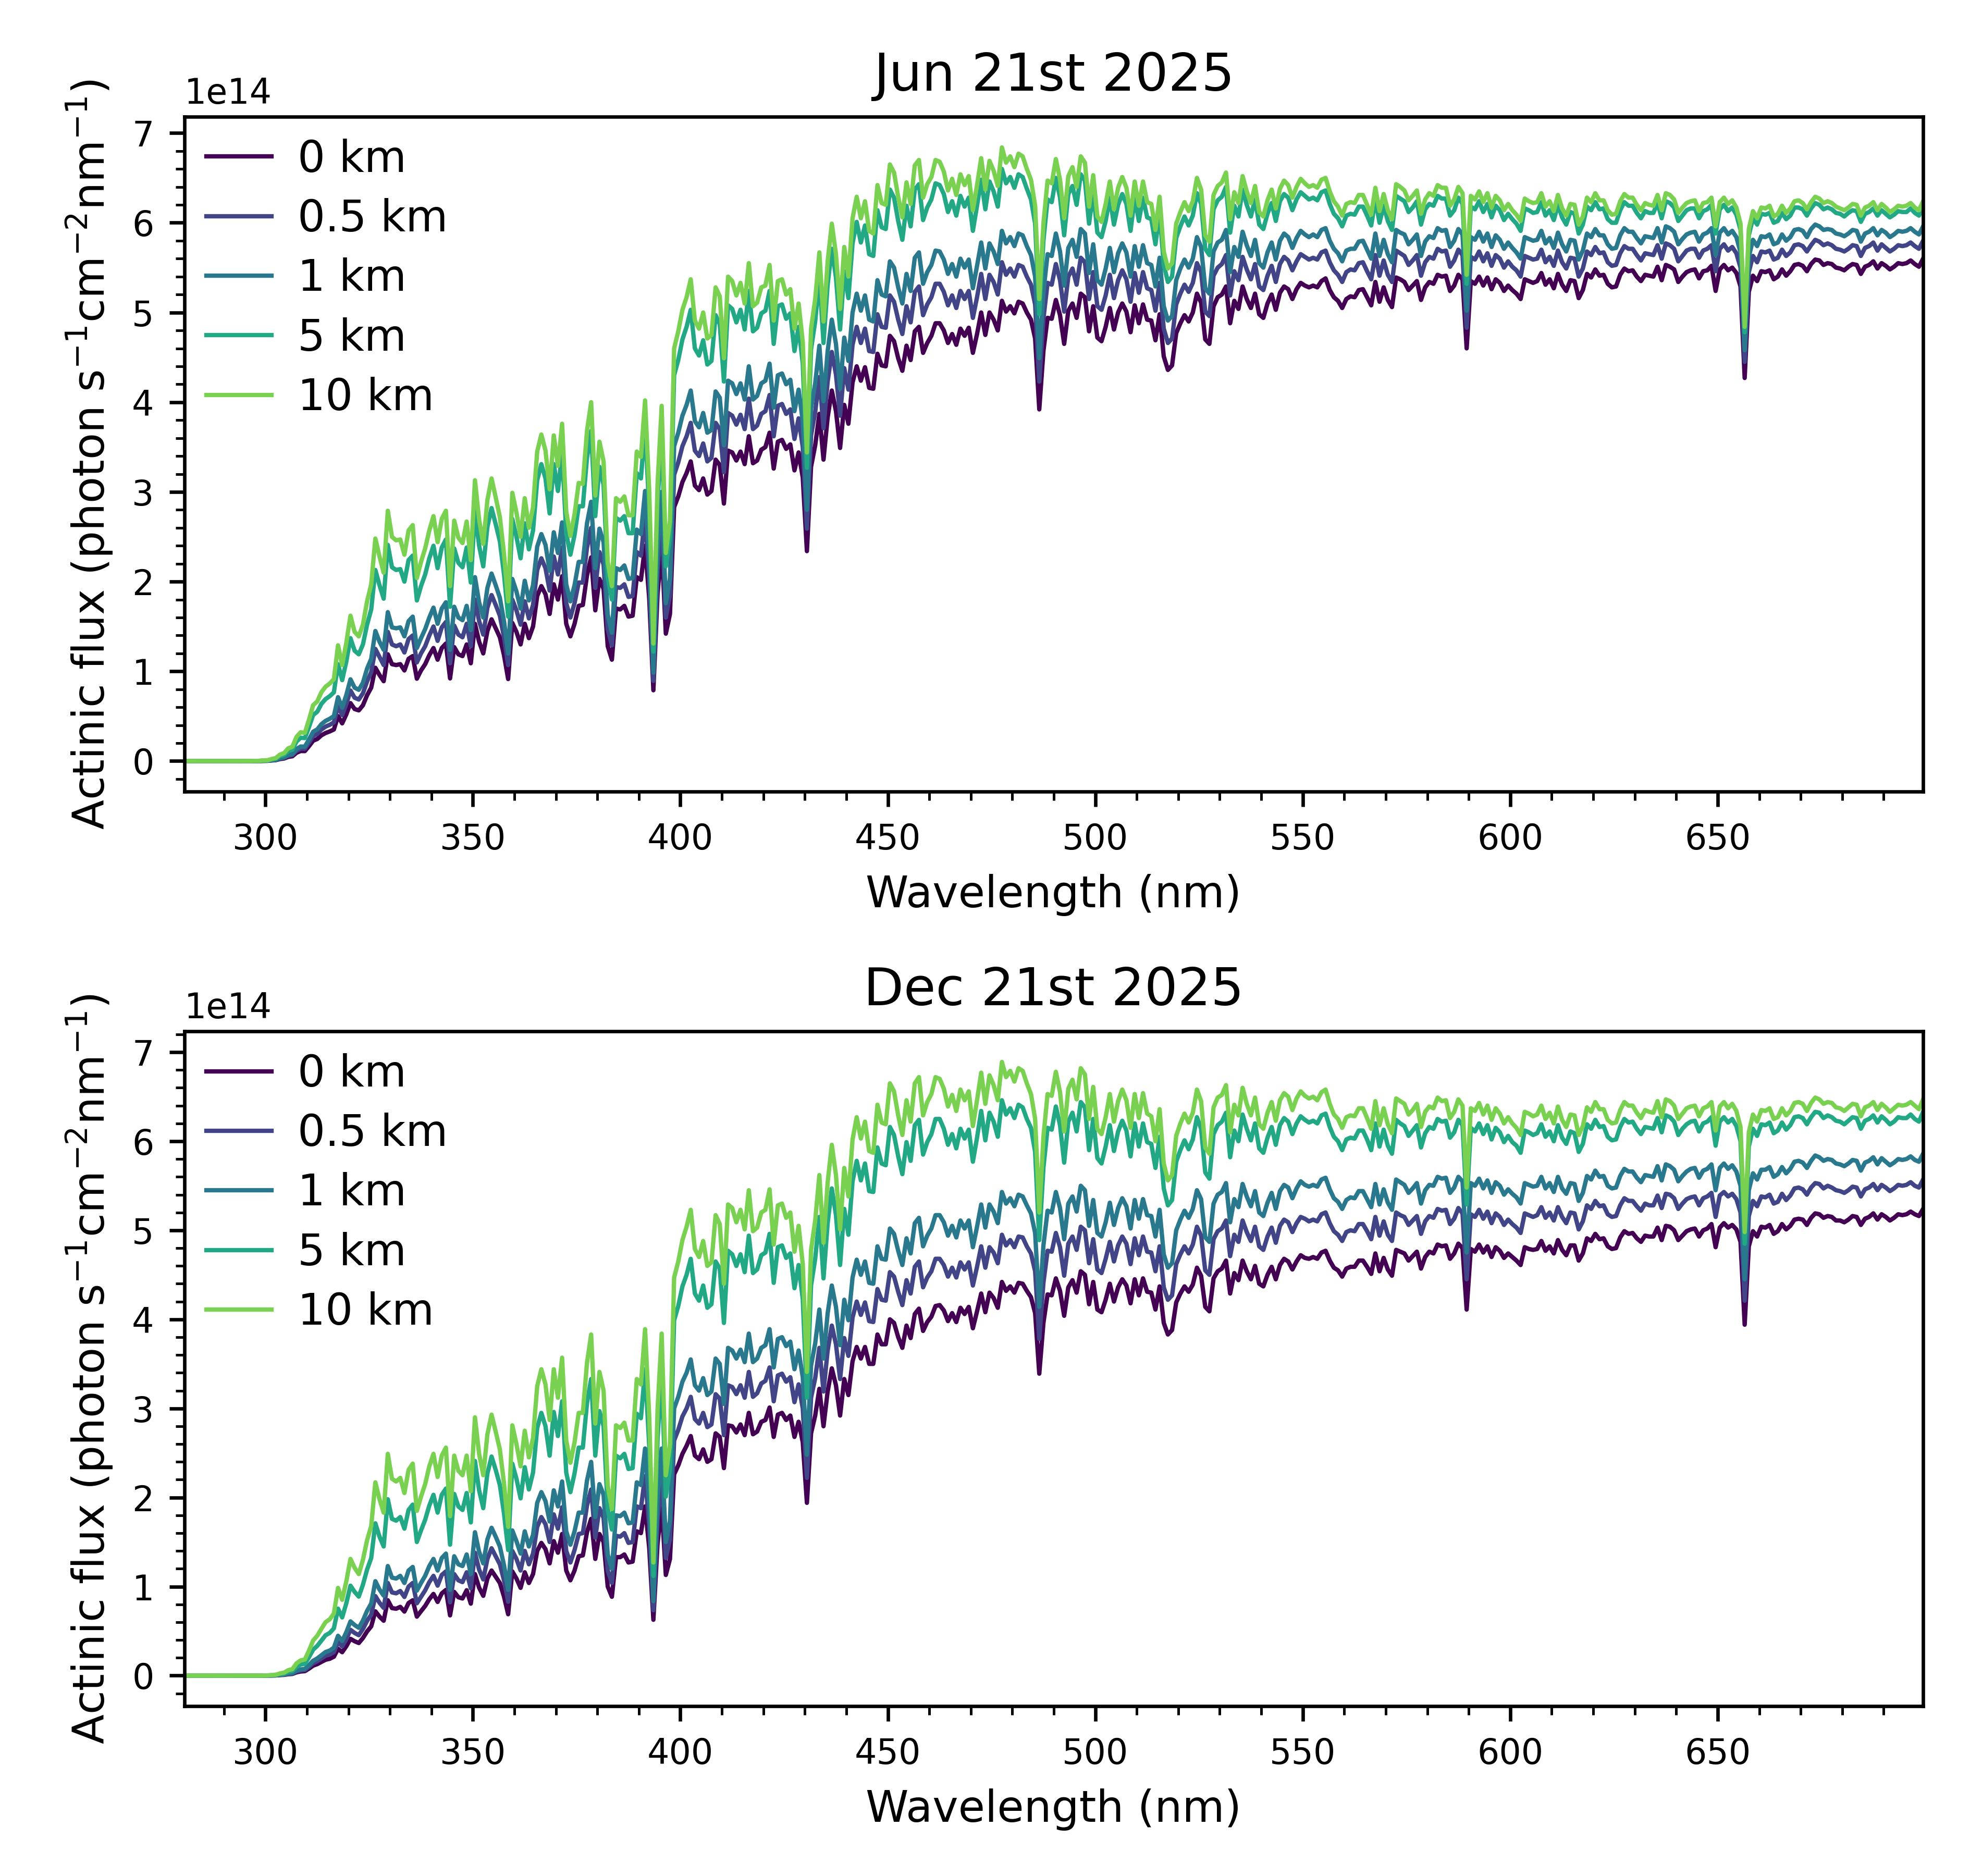
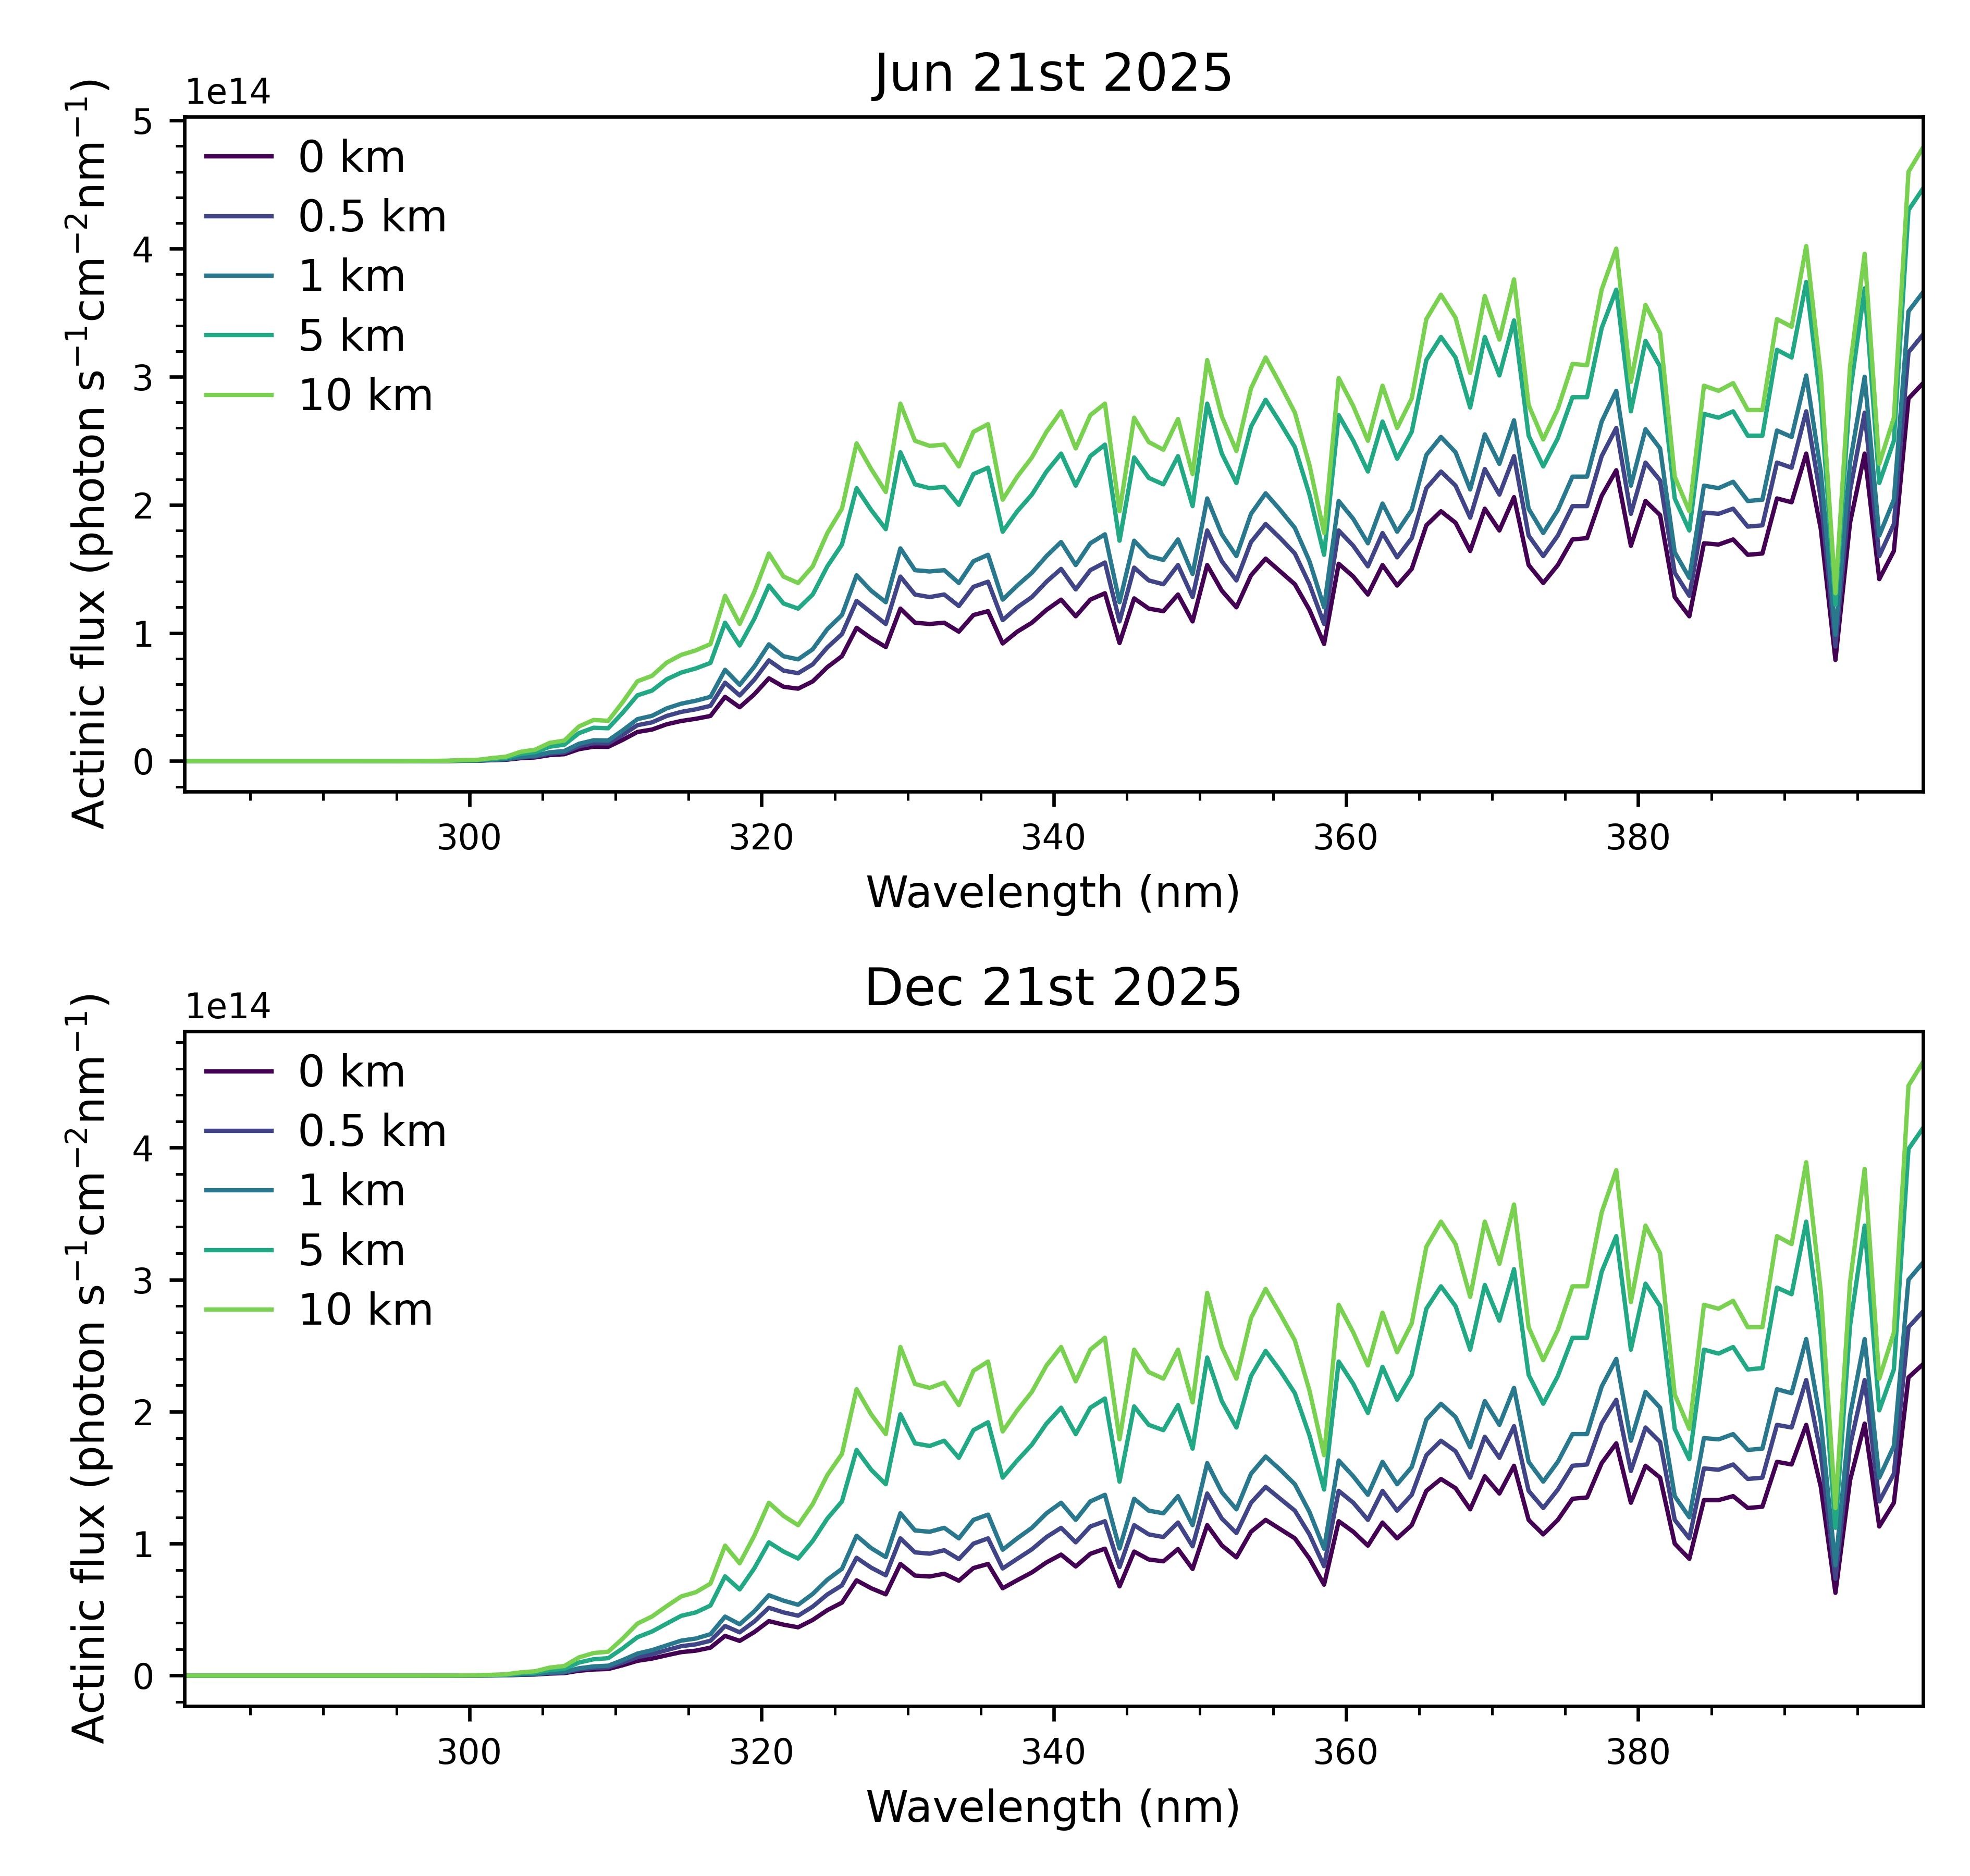
Update

diff --git a/TUV spectra/TUV.py b/TUV spectra/TUV.py
@@ -28,11 +28,12 @@ for i, keys in enumerate(equator_keys):
     cmap = mpl.colormaps['viridis']
     colors = cmap(np.linspace(0, 1, n_lines))
     for j, key in enumerate(keys):
-        wavelength = (data[key]['LOWER WVL'] + data[key]['UPPER WVL']) / 2
-        ax[i].plot(wavelength, data[key]['TOTAL'], label = altitudes[j], color = colors[j], lw = 1)
+        mask = data[key]['UPPER WVL'] <= 400
+        wavelength = (data[key]['LOWER WVL'][mask] + data[key]['UPPER WVL'][mask]) / 2
+        ax[i].plot(wavelength, data[key]['TOTAL'][mask], label = altitudes[j], color = colors[j], lw = 1)
 
     ax[i].legend()
-    ax[i].set(title = dates[i], xlabel = 'Wavelength (nm)', ylabel = 'Actinic flux (photon s$^{-1}$cm$^{-2}$nm$^{-1}$)', yscale = 'log')
+    ax[i].set(title = dates[i], xlabel = 'Wavelength (nm)', ylabel = 'Actinic flux (photon s$^{-1}$cm$^{-2}$nm$^{-1}$)')
 
 # fig.suptitle('Equator')
 fig.tight_layout()
@@ -44,8 +45,9 @@ for i, keys in enumerate(arktis_keys):
     cmap = mpl.colormaps['viridis']
     colors = cmap(np.linspace(0, 1, n_lines))
     for j, key in enumerate(keys):
-        wavelength = (data[key]['LOWER WVL'] + data[key]['UPPER WVL']) / 2
-        ax[i].plot(wavelength, data[key]['TOTAL'], label = altitudes[j], color = colors[j], lw = 1)
+        mask = data[key]['UPPER WVL'] <= 400
+        wavelength = (data[key]['LOWER WVL'][mask] + data[key]['UPPER WVL'][mask]) / 2
+        ax[i].plot(wavelength, data[key]['TOTAL'][mask], label = altitudes[j], color = colors[j], lw = 1)
 
     ax[i].legend()
     ax[i].set(title = dates[i], xlabel = 'Wavelength (nm)', ylabel = 'Actinic flux (photon s$^{-1}$cm$^{-2}$nm$^{-1}$)')
@@ -60,8 +62,9 @@ for i, keys in enumerate(marselis_keys):
     cmap = mpl.colormaps['viridis']
     colors = cmap(np.linspace(0, 1, n_lines))
     for j, key in enumerate(keys):
-        wavelength = (data[key]['LOWER WVL'] + data[key]['UPPER WVL']) / 2
-        ax[i].plot(wavelength, data[key]['TOTAL'], label = altitudes[j], color = colors[j], lw = 1)
+        mask = data[key]['UPPER WVL'] <= 400
+        wavelength = (data[key]['LOWER WVL'][mask] + data[key]['UPPER WVL'][mask]) / 2
+        ax[i].plot(wavelength, data[key]['TOTAL'][mask], label = altitudes[j], color = colors[j], lw = 1)
 
     ax[i].legend()
     ax[i].set(title = dates[i], xlabel = 'Wavelength (nm)', ylabel = 'Actinic flux (photon s$^{-1}$cm$^{-2}$nm$^{-1}$)')
@@ -69,3 +72,20 @@ for i, keys in enumerate(marselis_keys):
 # fig.suptitle('Marselis Forrest')
 fig.tight_layout()
 fig.savefig('Solar_spectrum_marselis.jpg', dpi = 600)
+
+
+fig, ax = plt.subplots(2, 1, figsize = (6.3, 6))
+for i, keys in enumerate(marselis_keys):
+    n_lines = len(keys)+1
+    cmap = mpl.colormaps['viridis']
+    colors = cmap(np.linspace(0, 1, n_lines))
+    for j, key in enumerate(keys):
+        mask = (data[key]['UPPER WVL'] > 290) & (data[key]['UPPER WVL'] < 310)
+        wavelength = (data[key]['LOWER WVL'][mask] + data[key]['UPPER WVL'][mask]) / 2
+        ax[i].plot(wavelength, data[key]['TOTAL'][mask], label = altitudes[j], color = colors[j], lw = 1)
+
+    ax[i].legend()
+    ax[i].set(title = dates[i], xlabel = 'Wavelength (nm)', ylabel = 'Actinic flux (photon s$^{-1}$cm$^{-2}$nm$^{-1}$)')
+
+# fig.suptitle('Marselis Forrest')
+fig.tight_layout()

diff --git a/Courses/2026_INAR_winter_school/Aerosol_data_pre-treatment.py b/Courses/2026_INAR_winter_school/Aerosol_data_pre-treatment.py
@@ -36,7 +36,7 @@ MION_NO3['MION_NO3_1H-avg'].to_csv(f'{path}1H-avg/MION_NO3_1H-avg.csv', index = 
 
 DMPS_temp = read_csv(f'{path}DMPS/', '', 'Date', '%Y-%m-%d %H:%M:%S')
 DMPS = pd.merge(DMPS_temp['DMPS_TZS_2024'], DMPS_temp['Particle number conc_TZS_2024'], on = 'Time', how = 'outer').drop(['Date_x', 'Date_y'], axis = 1)
-DMPS.to_csv(f'{path}DMPS_2024.csv', index = False)
+DMPS.to_csv(f'{path}1H-avg/DMPS_2024.csv', index = False)
 
 NAIS = read_csv(f'{path}NAIS/', '', 'time', '%Y-%m-%d %H:%M:%S')
 for key in NAIS.keys():
@@ -79,9 +79,9 @@ MION_running = running_mean(MION, MION.keys()[1:], 'Time', '60min', None)
 MION_running.to_csv(f'{path}1H-avg/MION_TZS_1H-avg.csv', index = False)
 
 event_dates = [['2024-03-04 23:59', '2024-03-06 23:30'],
-               ['2024-03-11 23:59', '2024-03-13 23:30'],
-               ['2024-03-17 23:59', '2024-03-19 23:30'],
-               ['2024-04-03 23:59', '2024-04-05 23:30'],
+               ['2024-03-11 23:59', '2024-03-13 12:00'],
+               ['2024-03-17 23:59', '2024-03-19 18:00'],
+               ['2024-04-03 23:59', '2024-04-05 12:00'],
                ['2024-04-09 23:59', '2024-04-11 23:30'],
                ['2024-04-13 23:59', '2024-04-16 23:30'],
                ['2024-04-21 23:59', '2024-04-23 23:30'],
@@ -96,21 +96,21 @@ event_dates = [['2024-03-04 23:59', '2024-03-06 23:30'],
                ['2024-08-18 23:59', '2024-08-20 23:30'],
                ['2024-08-24 23:59', '2024-08-26 23:30'],
                ['2024-09-09 23:59', '2024-09-11 23:30'],
-               ['2024-09-14 23:59', '2024-09-16 23:30'],
-               ['2024-09-18 23:59', '2024-09-21 23:30'],
-               ['2024-09-28 23:59', '2024-09-30 23:30'],
+               ['2024-09-15 06:00', '2024-09-16 23:30'],
+               ['2024-09-19 06:00', '2024-09-21 23:30'],
+               ['2024-09-29 06:00', '2024-09-30 23:30'],
                ['2024-10-02 23:59', '2024-10-03 23:30'],
                ['2024-10-13 23:59', '2024-10-16 23:30'],
-               ['2024-10-25 23:59', '2024-10-28 23:30'],
+               ['2024-10-26 12:00', '2024-10-28 23:30'],
                ['2024-12-01 23:59', '2024-12-03 23:30'],
                ['2024-12-09 23:59', '2024-12-12 23:30'],
-               ['2024-12-24 23:59', '2024-12-27 23:30']]
+               ['2024-12-25 18:00', '2024-12-27 03:00']]
 
 merged = pd.merge(NAIS_running['formation_rate_2_2p3_neg'], MION_running, on = 'Time', how = 'outer')
 merged = pd.merge(merged, MION_NO3['MION_NO3_1H-avg'], on = 'Time', how = 'outer')
 merged = pd.merge(merged, DMPS, on = 'Time', how = 'outer')
 event_dates_df = pd.DataFrame()
-merged_keys = ['J2-2.3,-/N<2,-', 'HSO4-', '(H2SO4)HSO4-', '(H2SO4)2HSO4-', 'SO3-', 'NO3-', '(HNO3)NO3-', '(H2SO4)NO3-', 'IO3-', '(HIO3)NO3-', '(HIO3)HSO4-', 'SA', 'IA', 'MSA']
+merged_keys = ['J2-2.3,-/N<2,-', 'HSO4-', '(H2SO4)HSO4-', '(H2SO4)2HSO4-', 'SO3-', 'NO3-', '(HNO3)NO3-', '(H2SO4)NO3-', 'IO3-', '(HIO3)NO3-', '(HIO3)HSO4-', 'SA', 'IA', 'MSA'] + DMPS.keys()[:-2]
 particle_formation_events = pd.DataFrame()
 for timestamps in event_dates:
     temp = time_filtered_conc(merged, merged_keys, timestamps)

diff --git a/Courses/2026_INAR_winter_school/Aerosol_data.py b/Courses/2026_INAR_winter_school/Aerosol_data.py
@@ -16,6 +16,9 @@ for key in data['DMPS_2024'].keys()[:-2]:
     DMPS_bin_means.append(float(key))
 DMPS_bins = calc_bin_edges(np.array(DMPS_bin_means)) / 10**(-9)
 
+print(DMPS_bins[0], DMPS_bins[-1])
+print(DMPS_bin_means[0], DMPS_bin_means[-1])
+
 PSM_bins = [[1.17, 1.3, 1.5, 1.7, 2.5, 3.0, 3.92],
             [1.1, 1.3, 1.5, 1.7, 2.5, 3.0],
             [1.17, 1.3, 1.4, 1.5, 1.7, 2.0, 2.5, 3.0, 3.5, 4.0, 5.0, 6.5, 8.0, 10.0, 12.0]]